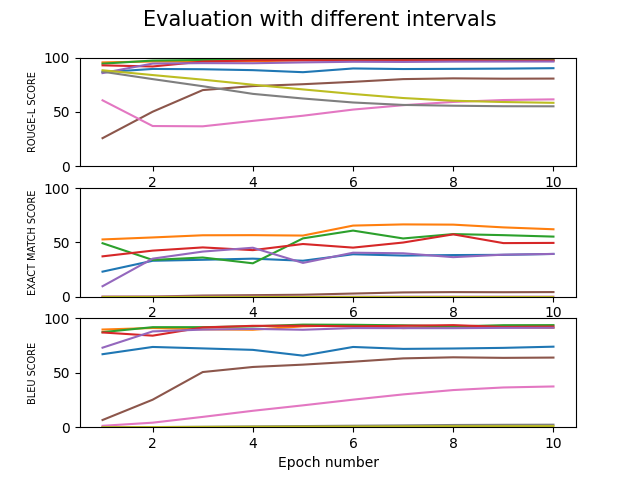
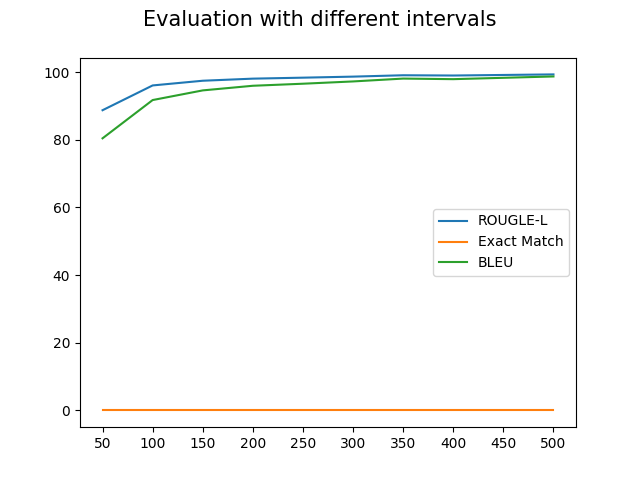
uodate

diff --git a/plotGraph.py b/plotGraph.py
@@ -1,115 +1,24 @@
 import matplotlib.pyplot as plt
+import numpy as np
 
 
-def multi_plot(num_epochs, rl, em, bleu,interval):
-    epochs = [x+1 for x in range(num_epochs)]
-    fig, (ax_rl, ax_em, ax_bleu) = plt.subplots(3)
-    for i, inv in enumerate(interval):
-        the_label = ''.join([str(inv-50), '-', str(inv)])
-        ax_rl.plot(epochs, rl[i], label = the_label)
-        ax_em.plot(epochs, em[i], label = the_label)
-        ax_bleu.plot(epochs, bleu[i], label = the_label)
+def multi_plot(rl, em, bleu,interval):
+    plt.plot(interval, rl, label = 'ROUGLE-L')
+    plt.plot(interval, em, label = 'Exact Match')
+    plt.plot(interval, bleu, label = 'BLEU')
 
-    ax_rl.set_xlabel('Epoch number')
-    ax_rl.set_ylabel('ROUGE-L SCORE', fontsize = 7)
-    ax_rl.set_ylim([0.0, 100.0])
-    ax_em.set_xlabel('Epoch number')
-    ax_em.set_ylabel('EXACT MATCH SCORE', fontsize = 7)
-    ax_em.set_ylim([0.0, 100.0])
-    ax_bleu.set_xlabel('Epoch number')
-    ax_bleu.set_ylabel('BLEU SCORE', fontsize = 7)
-    ax_bleu.set_ylim([0.0, 100.0])
-    fig.suptitle('Evaluation with different intervals', fontsize = 15)
-    fig.savefig('evaluate.png')
-
-
-    # epochs = [x+1 for x in range(num_epochs)]
-    # fig_rl = plt.figure(figsize=(8, 4))
-    # ax_rl = fig_rl.add_subplot(111)
-    # for i, inv in enumerate(interval):
-    #     the_label = ''.join([str(inv-50), '-', str(inv)])
-    #     ax_rl.plot(epochs, rl[i], label = the_label)
-    #
-    # ax_rl.legend(loc = 0)
-    # ax_rl.set_xlabel('Epoch number')
-    # ax_rl.set_ylabel('ROUGE-L SCORE')
-    # ax_rl.set_ylim([0.0, 100.0])
-    # fig_rl.savefig('Rouge-L.png' )
-    #
-    # fig_em = plt.figure(figsize=(8, 4))
-    # ax_em = fig_em.add_subplot(111)
-    # for i, inv in enumerate(interval):
-    #     the_label = ''.join([str(inv-50), '-', str(inv)])
-    #     ax_em.plot(epochs, em[i], label = the_label)
-    # ax_em.legend(loc = 0)
-    # ax_em.set_xlabel('Epoch number')
-    # ax_em.set_ylabel('EXACT MATCH SCORE')
-    # ax_em.set_ylim([0.0, 100.0])
-    # fig_em.savefig('EM.png' )
-    #
-    # fig_bleu = plt.figure(figsize=(8, 4))
-    # ax_bleu = fig_bleu.add_subplot(111)
-    # for i, inv in enumerate(interval):
-    #     the_label = ''.join([str(inv-50), '-', str(inv)])
-    #     ax_bleu.plot(epochs, bleu[i], label = the_label)
-    # ax_bleu.legend(loc = 0)
-    # ax_bleu.set_xlabel('Epoch number')
-    # ax_bleu.set_ylabel('BLEU SCORE')
-    # ax_bleu.set_ylim([0.0, 100.0])
-    # fig_bleu.savefig('Bleu.png' )
+    plt.suptitle('Evaluation with different intervals', fontsize = 15)
+    plt.xticks(np.arange(min(interval), max(interval)+1, 50.0))
+    plt.legend()
+    # plt.show()
+    plt.savefig('evaluate.png')
 
 
 
-
-rl50 = [86.5624,89.5727,89.2914,88.4595,86.5789,90.005,89.4818,89.6489,89.8724,90.2625]
-em50 = [23.10,33.10,34.0069,35.0438,33.1294,39.0853,37.8888,38.3408,38.5535,39.3778]
-bleu50 = [67.15, 73.817,72.4858,71.1377,65.8279,73.8144,72.0353,72.3936,72.9814,74.0747]
-
-rl100 = [95.5987,96.4129,96.3856,96.6693,97.4641,97.7622,97.1424,97.5203,97.3828,97.3489]
-em100 = [52.7253,54.5599,56.5541,56.6604,56.2882,65.4613,66.5514,66.3387,63.8128,62.0845]
-bleu100 = [89.8449,91.2500,90.1048,89.6386,92.8025,93.8887,91.1747,92.5739,91.9894,91.4289]
-
-rl150 = [94.4374,97.2629,97.8278,98.0074,98.1207,98.0402,98.0057,97.6072,97.9957,98.0319]
-em150 = [49.2422,33.8739,36.1074,30.7630,53.7091,60.8614,53.6293,57.6442,56.6604,55.3310]
-bleu150 = [87.4378,92.0135,92.0305,92.7439,94.3736,94.2037,93.7094,92.6884,93.8302,93.8947]
-
-rl200 = [92.8662,91.8344,96.3599,97.4925,97.6170,97.4136,97.5725,97.5635,97.1825,97.303]
-em200 = [37.1709,42.4355,45.3868,42.8875,48.5243,45.2007,49.8803,57.4049,49.3485,49.5346]
-bleu200 = [87.1414,84.2067,91.7633,93.2513,93.3239,92.7718,93.2991,93.8968,92.2353,92.5614]
-
-rl250 = [85.7675,94.5192,94.9053,94.8032,95.5835,96.1507,96.0054,96.2869,96.3573,96.3793]
-em250 = [9.6782,35.0428,41.5580,45.0943,31.1353,40.5211,39.9893,36.4264,38.7131,39.4044]
-bleu250 = [73.1558,88.1300,89.7860,90.4170,89.6405,91.1927,91.1299,91.1073,91.3734,91.4607]
-
-rl300 = [25.8894,50.215,70.114,73.7928,75.5229,77.7185,80.2134,80.9068,80.6017,80.6983]
-em300 = [0.0531,0.1861,1.1167,1.4623,1.8612,2.9513,3.9883,4.2807,4.1744,4.3073]
-bleu300 = [6.6127,25.2860,50.7375,55.4087,57.5489,60.2615,63.3063,64.2970,63.7906,64.0462]
-
-rl350 = [60.7063,37.0565,36.7864,41.7848,46.5283,52.1871,56.2096,59.2226,60.9693,61.5865]
-em350 = [0.0,0.0,0.0,0.0,0.0,0.0,0.0797,0.0797,0.0797,0.0797]
-bleu350 = [1.2801,4.1616,9.4881,15.0924,20.1032,25.3380,30.1765,34.1648,36.5502,37.4756]
-
-rl400 = [87.0584,80.2194,73.6767,66.637,62.3681,58.7088,56.4598,55.7364,55.2657,55.1991]
-em400 = [0.0,0.0,0.0,0.0,0.0,0.0,0.0,0.0,0.0,0.0]
-bleu400 = [0.0340,0.1096,0.3753,0.7066,1.0318,1.3631,1.6650,2.0288,2.2048,2.3077]
-
-rl450 = []
-em450 = []
-bleu450 = []
-
-rl500 = [88.3406, 83.9537,79.7021,75.0509,70.7303,66.5463,62.8062,60.3186,59.1386,58.4022]
-em500 = [0.0,0.0,0.0,0.0,0.0,0.0,0.0,0.0,0.0,0.0]
-bleu500 = [0.0,0.1171,0.2691,0.3822,0.5105,0.5878,0.7563,0.9049,0.9534,1.0012]
-
-# rl = [rl50, rl100, rl150, rl200, rl250, rl300, rl350, rl400, rl450, rl500]
-# em = [em50, em100, em150, em200, em250, em300, em350, em400, em450, em500]
-# bleu = [bleu50, bleu100, bleu150, bleu200, bleu250, bleu300, bleu350, bleu400, bleu450, bleu500]
-# interval = [50,100,150,200,250,300,350,400,450,500]
-
-rl = [rl50, rl100, rl150, rl200, rl250, rl300, rl350, rl400, rl500]
-em = [em50, em100, em150, em200, em250, em300, em350, em400, em500]
-bleu = [bleu50, bleu100, bleu150, bleu200, bleu250, bleu300, bleu350, bleu400, bleu500]
+rl = [88.7157, 96.0398, 97.4281, 98.0455, 98.3347, 98.643, 99.046, 98.9691, 99.3007]
+em = [0.0, 0.0, 0.0, 0.0, 0.0, 0.0, 0.0, 0.0, 0.0]
+bleu = [80.4111, 91.7192, 94.5737, 95.9414, 96.5473, 97.2210, 98.0641, 97.8935, 98.6925]
 interval = [50,100,150,200,250,300,350,400,500]
 
 
-multi_plot(10,rl,em,bleu,interval)
+multi_plot(rl,em,bleu,interval)

diff --git a/training_text.py b/training_text.py
@@ -559,27 +559,27 @@ def main():
 
     # for epoch in range(args.num_train_epochs):
     for epoch in trange(args.num_train_epochs, desc="train_epochs"):
-        # model.train()
-        # # for step, batch in enumerate(train_dataloader):
-        # for step, batch in enumerate(tqdm(train_dataloader, desc="Training")):
-        #     outputs = model(**batch)
-        #     loss = outputs.loss
-        #     loss = loss / args.gradient_accumulation_steps
-        #     # print('training loss:', loss)
-        #     accelerator.backward(loss)
-        #     if step % args.gradient_accumulation_steps == 0 or step == len(train_dataloader) - 1:
-        #         optimizer.step()
-        #         lr_scheduler.step()
-        #         optimizer.zero_grad()
-        #         progress_bar.update(1)
-        #         completed_steps += 1
-        #
-        #     if completed_steps >= args.max_train_steps:
-        #         break
-        #
-        # model_flag = '_lr_'+str(args.learning_rate)+'epoch_'+str(epoch)
-        # store_model(accelerator, model, args.output_dir+model_flag, tokenizer)
-        model.load_state_dict(torch.load('/content/seq2seq/output_ptb/_lr_2e-05epoch_9/pytorch_model.bin'))
+        model.train()
+        # for step, batch in enumerate(train_dataloader):
+        for step, batch in enumerate(tqdm(train_dataloader, desc="Training")):
+            outputs = model(**batch)
+            loss = outputs.loss
+            loss = loss / args.gradient_accumulation_steps
+            # print('training loss:', loss)
+            accelerator.backward(loss)
+            if step % args.gradient_accumulation_steps == 0 or step == len(train_dataloader) - 1:
+                optimizer.step()
+                lr_scheduler.step()
+                optimizer.zero_grad()
+                progress_bar.update(1)
+                completed_steps += 1
+
+            if completed_steps >= args.max_train_steps:
+                break
+
+        model_flag = '_lr_'+str(args.learning_rate)+'epoch_'+str(epoch)
+        store_model(accelerator, model, args.output_dir+model_flag, tokenizer)
+        # model.load_state_dict(torch.load('/content/seq2seq/output_ptb/_lr_2e-05epoch_9/pytorch_model.bin'))
         '''evaluting after each epoch'''
         model.eval()
         if args.val_max_target_length is None:
